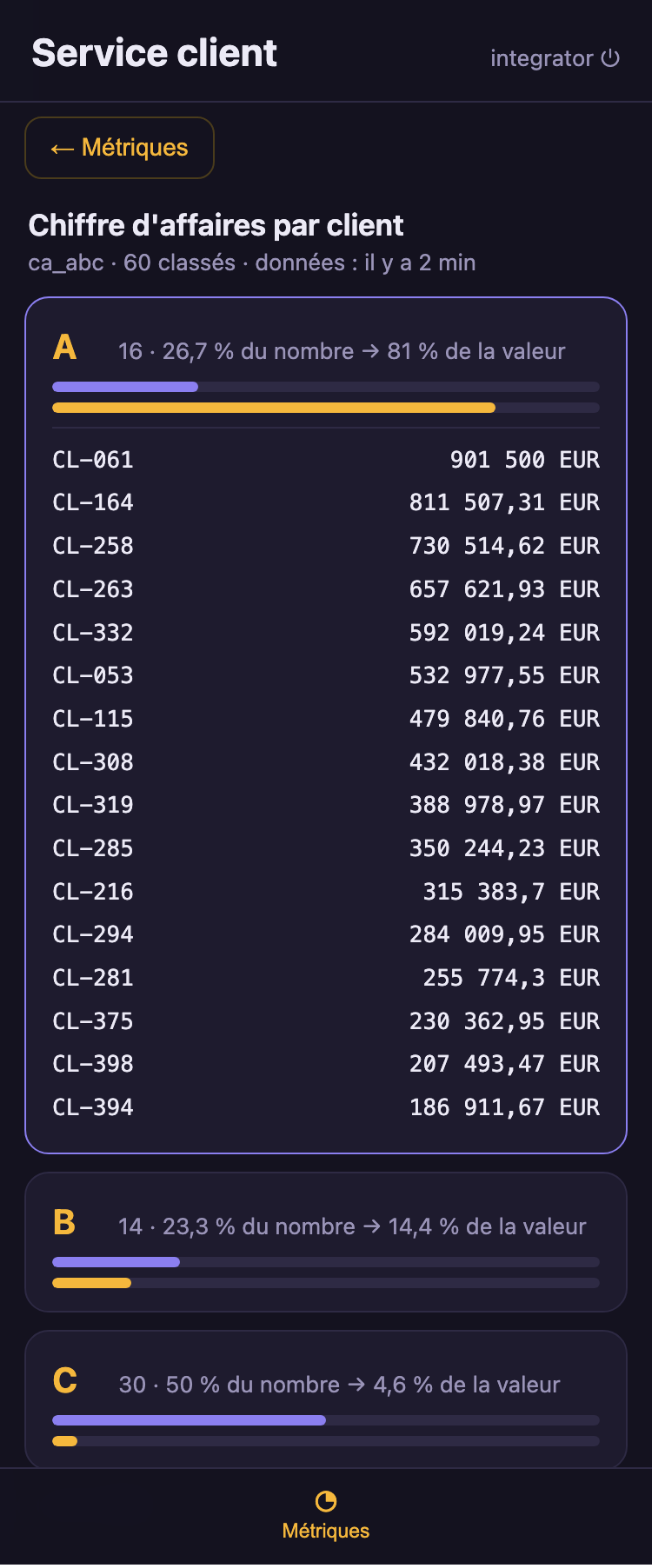
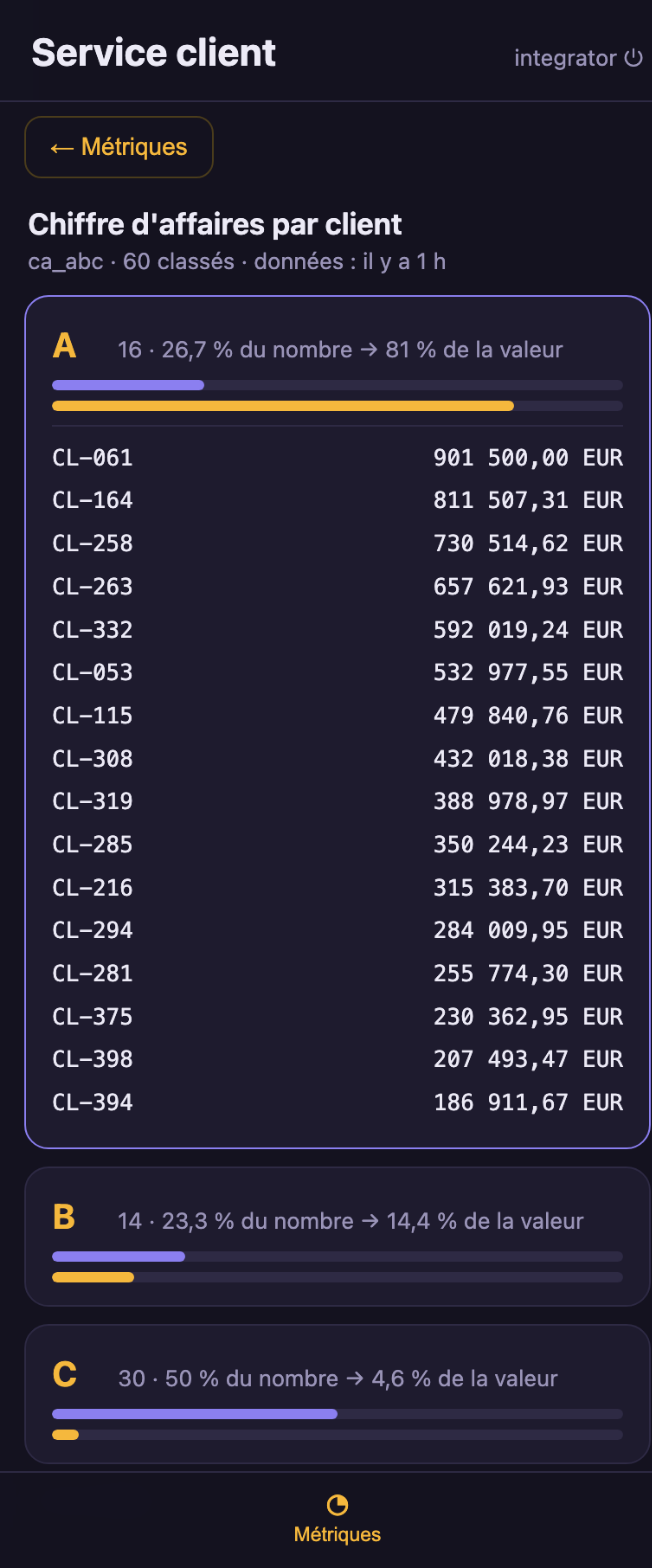
scenarios: the revenue and donors screenshots taken again on a hub serving monorepo #2199 — amounts keep their cents (lab 3844d010ace4)

diff --git a/scenarios/association-donors-top-quartile/index.html b/scenarios/association-donors-top-quartile/index.html
@@ -172,7 +172,7 @@ DON-2989  110      2     Q1        78.7500000000000000  17              21.25000
   montant = sum(montant), by donateur
   dons = count(rows), by donateur
   quartile = quantile(montant, bounds [25, 50, 75], labels [Q4, Q3, Q2, Q1]) over every group, prior headcount, null unclassified
-  data as of: 2026-11-27T22:08:48.311306Z (last completed run)</span></code></pre></div><div role="tabpanel" class="view-panel view-panel-result" id="read-result" aria-labelledby="read-result-tab" tabindex="0" hidden><dl class="facts"><dt>Q4</dt><dd>20 donors · 76.05 % of the amount</dd><dt>Q4 gifts</dt><dd>50 of 607</dd><dt>DON-2683</dt><dd>3454.66 EUR · 3 gifts</dd><dt>DON-1357</dt><dd>3331.35 EUR · 3 gifts</dd><dt>DON-1411</dt><dd>3011.57 EUR · 3 gifts</dd><dt>DON-0297</dt><dd>2833.39 EUR · 3 gifts</dd><dt>DON-2828</dt><dd>2304.39 EUR · 2 gifts</dd><dt>DON-1870</dt><dd>1821.35 EUR · 3 gifts</dd><dt>DON-1279</dt><dd>1740.88 EUR · 2 gifts</dd><dt>DON-2176</dt><dd>1702.35 EUR · 3 gifts</dd><dt>DON-1768</dt><dd>1695.44 EUR · 2 gifts</dd><dt>DON-0117</dt><dd>1680.21 EUR · 2 gifts</dd><dt>DON-2305</dt><dd>1289.53 EUR · 1 gifts</dd><dt>DON-2178</dt><dd>1191.97 EUR · 2 gifts</dd><dt>DON-1003</dt><dd>1145.4 EUR · 2 gifts</dd><dt>DON-2229</dt><dd>1075.5 EUR · 2 gifts</dd><dt>DON-2406</dt><dd>976.83 EUR · 1 gifts</dd><dt>DON-1830</dt><dd>930.99 EUR · 1 gifts</dd><dt>DON-1635</dt><dd>799.81 EUR · 1 gifts</dd><dt>DON-2506</dt><dd>756.13 EUR · 1 gifts</dd><dt>DON-2457</dt><dd>642.41 EUR · 1 gifts</dd><dt>DON-2285</dt><dd>600 EUR · 12 gifts</dd><dt>check_quartile.py</dt><dd>same 20 donors, same share</dd></dl><p class="sources">preuves: replay.log, 00-check-quartile.txt, 01-run.json, 05-top-quarter.json, 04-metric.txt · transform v1</p></div><div role="tabpanel" class="view-panel view-panel-screenshots" id="read-screenshots" aria-labelledby="read-screenshots-tab" tabindex="0" hidden><figure class="shot"><img src="evidence/screenshots/q4-open.png" alt="Dons par donateur dans l&#x27;onglet Métriques: Q4 ouvert, vingt donateurs avec leur montant et leur nombre de dons, de DON-2683 (3 454,66 EUR, 3 dons) à DON-2285 (600 EUR, 12 dons)" loading="lazy"><figcaption>Dons par donateur dans l&#x27;onglet Métriques: Q4 ouvert, vingt donateurs avec leur montant et leur nombre de dons, de DON-2683 (3 454,66 EUR, 3 dons) à DON-2285 (600 EUR, 12 dons)</figcaption></figure></div>
+  data as of: 2026-11-27T22:08:48.311306Z (last completed run)</span></code></pre></div><div role="tabpanel" class="view-panel view-panel-result" id="read-result" aria-labelledby="read-result-tab" tabindex="0" hidden><dl class="facts"><dt>Q4</dt><dd>20 donors · 76.05 % of the amount</dd><dt>Q4 gifts</dt><dd>50 of 607</dd><dt>DON-2683</dt><dd>3454.66 EUR · 3 gifts</dd><dt>DON-1357</dt><dd>3331.35 EUR · 3 gifts</dd><dt>DON-1411</dt><dd>3011.57 EUR · 3 gifts</dd><dt>DON-0297</dt><dd>2833.39 EUR · 3 gifts</dd><dt>DON-2828</dt><dd>2304.39 EUR · 2 gifts</dd><dt>DON-1870</dt><dd>1821.35 EUR · 3 gifts</dd><dt>DON-1279</dt><dd>1740.88 EUR · 2 gifts</dd><dt>DON-2176</dt><dd>1702.35 EUR · 3 gifts</dd><dt>DON-1768</dt><dd>1695.44 EUR · 2 gifts</dd><dt>DON-0117</dt><dd>1680.21 EUR · 2 gifts</dd><dt>DON-2305</dt><dd>1289.53 EUR · 1 gifts</dd><dt>DON-2178</dt><dd>1191.97 EUR · 2 gifts</dd><dt>DON-1003</dt><dd>1145.4 EUR · 2 gifts</dd><dt>DON-2229</dt><dd>1075.5 EUR · 2 gifts</dd><dt>DON-2406</dt><dd>976.83 EUR · 1 gifts</dd><dt>DON-1830</dt><dd>930.99 EUR · 1 gifts</dd><dt>DON-1635</dt><dd>799.81 EUR · 1 gifts</dd><dt>DON-2506</dt><dd>756.13 EUR · 1 gifts</dd><dt>DON-2457</dt><dd>642.41 EUR · 1 gifts</dd><dt>DON-2285</dt><dd>600 EUR · 12 gifts</dd><dt>check_quartile.py</dt><dd>same 20 donors, same share</dd></dl><p class="sources">preuves: replay.log, 00-check-quartile.txt, 01-run.json, 05-top-quarter.json, 04-metric.txt · transform v1</p></div><div role="tabpanel" class="view-panel view-panel-screenshots" id="read-screenshots" aria-labelledby="read-screenshots-tab" tabindex="0" hidden><figure class="shot"><img src="evidence/screenshots/q4-open.png" alt="Dons par donateur dans l&#x27;onglet Métriques: Q4 ouvert, vingt donateurs avec leur montant et leur nombre de dons, de DON-2683 (3 454,66 EUR, 3 dons) à DON-2285 (600,00 EUR, 12 dons)" loading="lazy"><figcaption>Dons par donateur dans l&#x27;onglet Métriques: Q4 ouvert, vingt donateurs avec leur montant et leur nombre de dons, de DON-2683 (3 454,66 EUR, 3 dons) à DON-2285 (600,00 EUR, 12 dons)</figcaption></figure></div>
   </div>
 </section>
   <section class="limits"><h2>Limites</h2><ul><li>Pas encore de mouvement: les donateurs entrés ou sortis de Q4 depuis l&#x27;an dernier attendent l&#x27;historique des métriques. Une année est un total.</li><li>Pas un score de fidélité: le classement se fait sur le montant seul, le nombre de dons est montré à côté, pas pondéré.</li><li>Les montants tels qu&#x27;enregistrés: lumnik ne les rapproche pas des reçus fiscaux.</li><li>Aucun nom: la métrique contient des codes, qui est derrière un code reste dans le logiciel de dons.</li><li>80 codes de donateurs et 607 dons synthétiques.</li></ul></section>

diff --git a/scenarios/complaints-vs-revenue-concentration/index.html b/scenarios/complaints-vs-revenue-concentration/index.html
@@ -247,7 +247,7 @@ CL-398  207493.47  A       76.6252172537330365  16            26.666666666666666
   ca_abc_share: %
   ca = sum(montant_ht), by client
   ca_abc = pareto(ca, bounds [80, 95], labels [A, B, C]) over every group, prior mass, null and ≤ 0 unclassified
-  data as of: 2026-11-27T21:44:26.975443Z (last completed run)</span></code></pre></div><div role="tabpanel" class="view-panel view-panel-result" id="read-result" aria-labelledby="read-result-tab" tabindex="0" hidden><dl class="facts"><dt>complaints · A</dt><dd>8 customers · 82.20 %</dd><dt>revenue · A</dt><dd>16 customers · 80.97 %</dd><dt>check_classes.py</dt><dd>both classes A identical</dd></dl><p class="sources">preuves: replay.log, 00-check-classes.txt, 01-run-tickets.json, 01-run-factures.json, 04-reclamations.txt, 05-ca.txt, 06-compare.json · transform v1</p></div><div role="tabpanel" class="view-panel view-panel-screenshots" id="read-screenshots" aria-labelledby="read-screenshots-tab" tabindex="0" hidden><figure class="shot"><img src="evidence/screenshots/complaints-a-open.png" alt="Réclamations par client dans l&#x27;onglet Métriques: A ouvert, huit clients de CL-061 (64 réclamations) à CL-296 (30)" loading="lazy"><figcaption>Réclamations par client dans l&#x27;onglet Métriques: A ouvert, huit clients de CL-061 (64 réclamations) à CL-296 (30)</figcaption></figure><figure class="shot"><img src="evidence/screenshots/revenue-a-open.png" alt="Chiffre d&#x27;affaires par client: A ouvert, seize clients de CL-061 (901 500 EUR) à CL-394; CL-179, CL-286 et CL-296 n&#x27;y sont pas" loading="lazy"><figcaption>Chiffre d&#x27;affaires par client: A ouvert, seize clients de CL-061 (901 500 EUR) à CL-394; CL-179, CL-286 et CL-296 n&#x27;y sont pas</figcaption></figure></div>
+  data as of: 2026-11-27T21:44:26.975443Z (last completed run)</span></code></pre></div><div role="tabpanel" class="view-panel view-panel-result" id="read-result" aria-labelledby="read-result-tab" tabindex="0" hidden><dl class="facts"><dt>complaints · A</dt><dd>8 customers · 82.20 %</dd><dt>revenue · A</dt><dd>16 customers · 80.97 %</dd><dt>check_classes.py</dt><dd>both classes A identical</dd></dl><p class="sources">preuves: replay.log, 00-check-classes.txt, 01-run-tickets.json, 01-run-factures.json, 04-reclamations.txt, 05-ca.txt, 06-compare.json · transform v1</p></div><div role="tabpanel" class="view-panel view-panel-screenshots" id="read-screenshots" aria-labelledby="read-screenshots-tab" tabindex="0" hidden><figure class="shot"><img src="evidence/screenshots/complaints-a-open.png" alt="Réclamations par client dans l&#x27;onglet Métriques: A ouvert, huit clients de CL-061 (64 réclamations) à CL-296 (30)" loading="lazy"><figcaption>Réclamations par client dans l&#x27;onglet Métriques: A ouvert, huit clients de CL-061 (64 réclamations) à CL-296 (30)</figcaption></figure><figure class="shot"><img src="evidence/screenshots/revenue-a-open.png" alt="Chiffre d&#x27;affaires par client: A ouvert, seize clients de CL-061 (901 500,00 EUR) à CL-394; CL-179, CL-286 et CL-296 n&#x27;y sont pas" loading="lazy"><figcaption>Chiffre d&#x27;affaires par client: A ouvert, seize clients de CL-061 (901 500,00 EUR) à CL-394; CL-179, CL-286 et CL-296 n&#x27;y sont pas</figcaption></figure></div>
   </div>
 </section>
 <section class="step" id="step-compare" aria-labelledby="compare-title" data-inactive>
